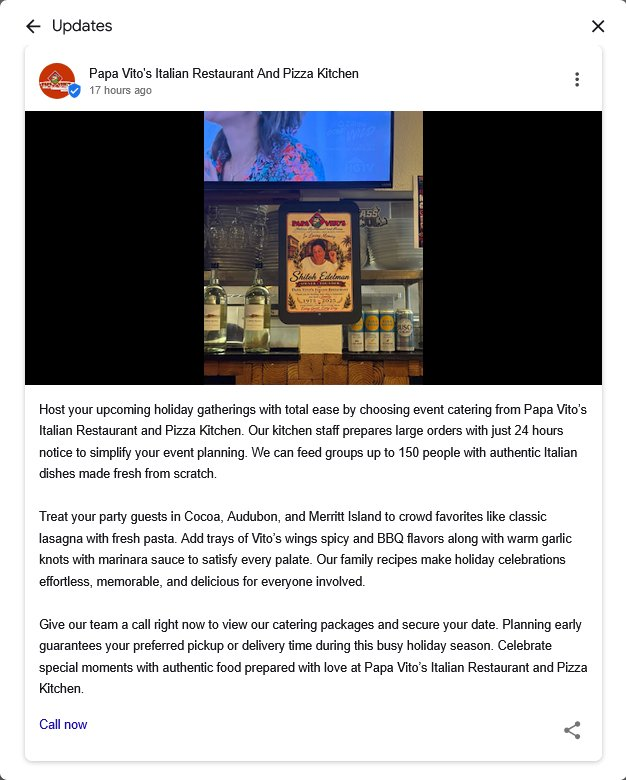
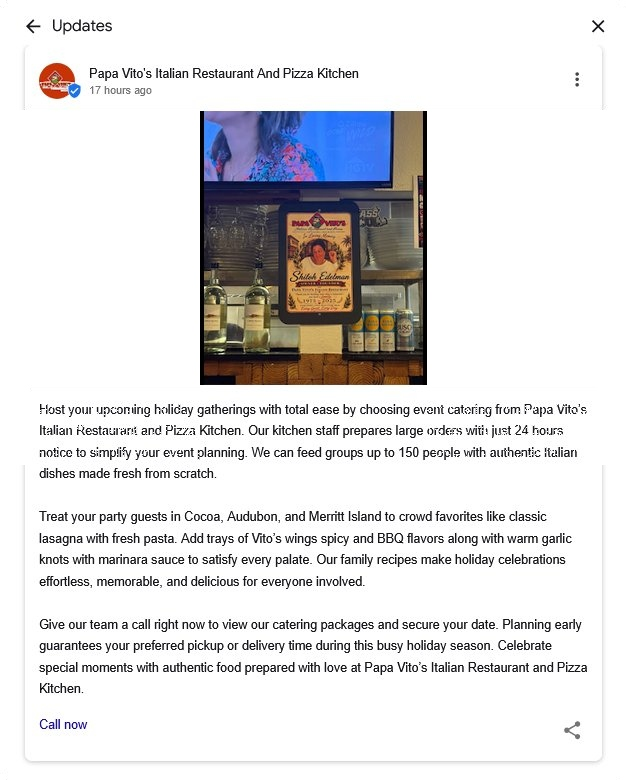
fix(styles): eliminate dark backgrounds and clean card borders to match presentation theme

Changed region(s): [[0.6677, 0.1231, 0.9712, 0.4923], [0.0304, 0.1231, 0.3339, 0.4923]]

diff --git a/index.html b/index.html
@@ -1458,7 +1458,7 @@
                   <span style="font-weight: 700; color: var(--text-dark); font-size: 11px;">Active Google Posts</span>
                   <span style="font-size: 9px; font-weight: 700; color: #16A34A; background: #DCFCE7; padding: 1.5px 6px; border-radius: 4px; white-space: nowrap; flex-shrink: 0;">5 Posts</span>
                 </div>
-                <div class="recency-img-card" style="border: 1px solid #CBD5E1; background: #22242A; border-radius: 10px; height: 215px; display: flex; align-items: center; justify-content: center; box-shadow: 0 4px 14px rgba(0,0,0,0.08);">
+                <div class="recency-img-card" style="border: 1px solid #CBD5E1; background: #FFFFFF; border-radius: 10px; height: 215px; display: flex; align-items: center; justify-content: center; box-shadow: 0 4px 14px rgba(0,0,0,0.08);">
                   <img src="assets/papa-vitos-google-posts.png" alt="Papa Vito's active Google posts carousel" style="width: 100%; height: auto; max-height: 215px; object-fit: contain; display: block;">
                 </div>
               </div>
@@ -1467,7 +1467,7 @@
                   <span style="font-weight: 700; color: var(--text-dark); font-size: 11px;">Post Update Details</span>
                   <span style="font-size: 9px; font-weight: 700; color: #2563EB; background: #DBEAFE; padding: 1.5px 6px; border-radius: 4px; white-space: nowrap; flex-shrink: 0;">Recent Post</span>
                 </div>
-                <div class="recency-img-card" style="border: 1px solid #CBD5E1; background: #22242A; border-radius: 10px; height: 215px; display: flex; align-items: center; justify-content: center; box-shadow: 0 4px 14px rgba(0,0,0,0.08);">
+                <div class="recency-img-card" style="border: 1px solid #CBD5E1; background: #FFFFFF; border-radius: 10px; height: 215px; display: flex; align-items: center; justify-content: center; box-shadow: 0 4px 14px rgba(0,0,0,0.08);">
                   <img src="assets/papa-vitos-google-post-detail.jpg" alt="Papa Vito's published Google post update detail" style="width: 100%; height: auto; max-height: 215px; object-fit: contain; display: block;">
                 </div>
               </div>

diff --git a/styles.css b/styles.css
@@ -897,11 +897,11 @@ html, body {
 }
 
 .recency-img-card {
-  background: #111827;
+  background: #FFFFFF;
   border-radius: 10px;
   overflow: hidden;
-  box-shadow: 0 6px 16px rgba(15, 23, 42, 0.12);
-  border: 1px solid rgba(15, 23, 42, 0.2);
+  box-shadow: 0 4px 14px rgba(15, 23, 42, 0.08);
+  border: 1px solid #CBD5E1;
   display: flex;
   align-items: center;
   justify-content: center;
